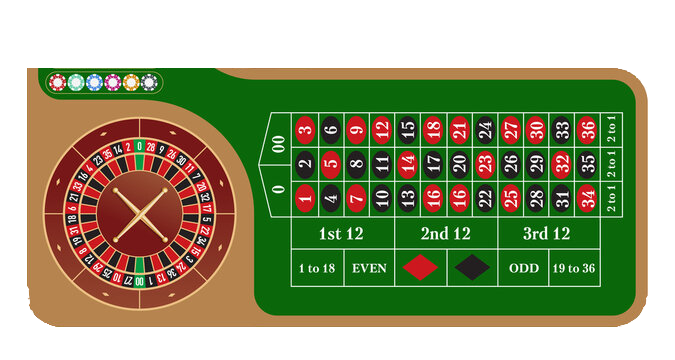
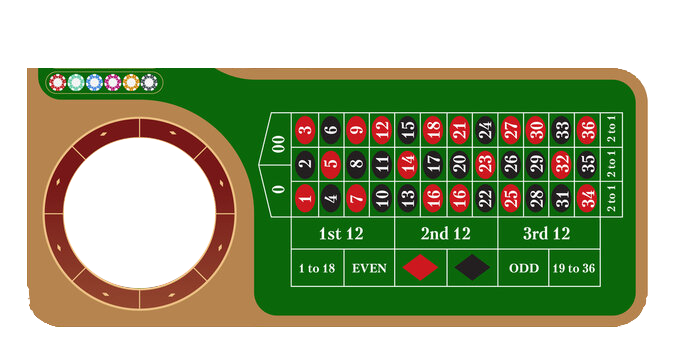
got the wheel in place

Changed region(s): [[0.0933, 0.3667, 0.3422, 0.825]]

diff --git a/src/Main.java b/src/Main.java
@@ -11,9 +11,9 @@ public class Main {
         tab.setSize(1440,900);
 
         JLayeredPane whe = new JLayeredPane();
-        whe.setSize(200,200);
+        whe.setSize(1440,900);
 
-
+        JFrame myFrame = new JFrame();
 
         ImageIcon icon = new ImageIcon("tabless.png");
         icon.setImage(icon.getImage().getScaledInstance(1440,900,Image.SCALE_DEFAULT));
@@ -22,19 +22,21 @@ public class Main {
         table.setBounds(0,0,1440,900);
 
         ImageIcon ico = new ImageIcon("wheel.png");
-        ico.setImage(ico.getImage().getScaledInstance(200 ,200,Image.SCALE_DEFAULT));
+        ico.setImage(ico.getImage().getScaledInstance(400 ,400,Image.SCALE_DEFAULT));
         JLabel wheel = new JLabel(ico);
-        whe.add(wheel,Integer.valueOf(0));
-        wheel.setBounds(0,0,200,200);
+        whe.add(wheel,Integer.valueOf(2));
+        wheel.setBounds(97,330,400,400);
 
 
 
 
-        JFrame myFrame = new JFrame();
 
 
-        myFrame.add(tab);
+
+
         myFrame.add(whe);
+        myFrame.add(tab);
+
 
         myFrame.setDefaultCloseOperation(JFrame.EXIT_ON_CLOSE);
         myFrame.setSize(2500, 1600);
